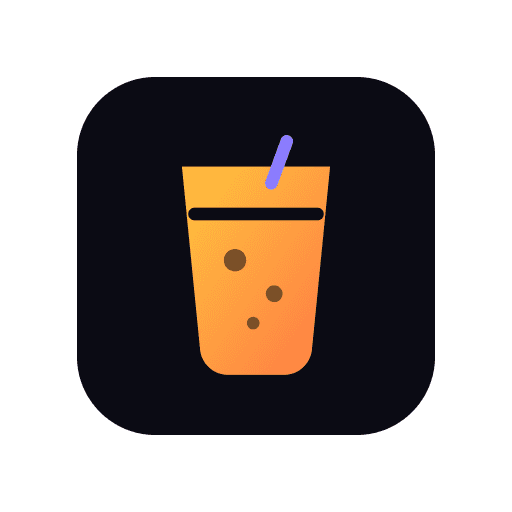
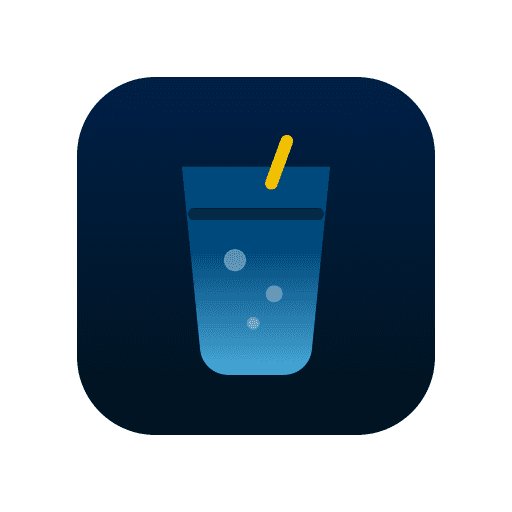
Línea gráfica de Grupo Effi (grupoeffi.com)
- Paleta: azul noche #01121D/#002047, azules corporativos #005A98,
  #277EB5, #49AAD9, #00C0FF, amarillo #F3C100, texto blanco y #CACACA.
- Tipografía Montserrat (incluida en el bundle; funciona offline).
- Botones principales en mayúsculas con degradado azul vertical y
  esquinas inferiores redondeadas; tarjetas con radio 15px.
- Ícono y favicon recoloreados; gráficas revalidadas sobre el nuevo fondo.

diff --git a/src/index.css b/src/index.css
@@ -1,24 +1,27 @@
 @import 'tailwindcss';
 
-/* ── Sistema de diseño Effi Drink Pass ─────────────────────────────────────
-   Oscuro "noche de feria": superficies índigo profundo, acento ámbar (bebida)
-   y violeta. Contrastes AA en texto normal. */
+/* ── Sistema de diseño Effi Drink Pass — línea gráfica de Grupo Effi ─────────
+   (grupoeffi.com): azul noche #01121D / #002047, azules corporativos #005A98,
+   #277EB5, #49AAD9, #00C0FF, amarillo #F3C100, texto blanco y gris #CACACA,
+   tipografía Montserrat, botones en mayúsculas con degradado azul vertical y
+   esquinas inferiores redondeadas. Contrastes AA en texto normal. */
 @theme {
-  --color-bg: #0b0b14;
-  --color-surface: #141424;
-  --color-surface-2: #1c1c30;
-  --color-line: #2a2a42;
-  --color-ink: #f3f3f8;
-  --color-muted: #a3a3bd;
-  --color-faint: #6e6e8a;
-  --color-brand: #ffc53d;
-  --color-brand-2: #ff7a45;
-  --color-accent: #8b7cff;
+  --color-bg: #01121d;
+  --color-surface: #061e33;
+  --color-surface-2: #0a2a47;
+  --color-line: #17405f;
+  --color-ink: #ffffff;
+  --color-muted: #cacaca;
+  --color-faint: #8ca5ba;
+  --color-brand: #49aad9;
+  --color-brand-2: #00c0ff;
+  --color-brand-deep: #005a98;
+  --color-accent: #f3c100;
   --color-ok: #22c55e;
   --color-warn: #f59e0b;
   --color-bad: #ef4444;
   --color-info: #38bdf8;
-  --font-sans: 'Inter', ui-sans-serif, system-ui, -apple-system, 'Segoe UI', Roboto, sans-serif;
+  --font-sans: 'Montserrat Variable', 'Montserrat', ui-sans-serif, system-ui, -apple-system, 'Segoe UI', Roboto, sans-serif;
   --font-mono: ui-monospace, 'SFMono-Regular', Menlo, Consolas, monospace;
   --radius-xl2: 1.25rem;
 }
@@ -43,24 +46,30 @@
 }
 
 @layer components {
+  /* Degradado de botones de grupoeffi.com (y su estado hover). */
   .brand-gradient {
-    background-image: linear-gradient(135deg, var(--color-brand), var(--color-brand-2));
+    background-image: linear-gradient(180deg, #00497c 40%, #49aad9 100%);
   }
+  .brand-gradient-hover:hover:not(:disabled) {
+    background-image: linear-gradient(180deg, #277eb5 20%, #00c0ff 100%);
+  }
+  /* Palabras destacadas en titulares: amarillo Effi. */
   .brand-text {
-    background-image: linear-gradient(135deg, var(--color-brand), var(--color-brand-2));
-    -webkit-background-clip: text;
-    background-clip: text;
-    color: transparent;
+    color: var(--color-accent);
+  }
+  /* Esquina característica de los botones Effi: solo abajo. */
+  .effi-corner {
+    border-radius: 0 0 15px 15px;
   }
   .glow {
-    box-shadow: 0 0 0 1px color-mix(in srgb, var(--color-brand) 25%, transparent),
-      0 20px 60px -20px color-mix(in srgb, var(--color-brand-2) 45%, transparent);
+    box-shadow: 0 0 0 1px color-mix(in srgb, var(--color-brand) 30%, transparent),
+      0 24px 60px -24px color-mix(in srgb, var(--color-brand-2) 45%, transparent);
   }
   .card {
-    @apply rounded-2xl border border-line bg-surface;
+    @apply rounded-[15px] border border-line bg-surface;
   }
   .input {
-    @apply w-full rounded-xl border border-line bg-surface-2 px-3.5 py-2.5 text-sm text-ink placeholder:text-faint
+    @apply w-full rounded-[10px] border border-line bg-surface-2 px-3.5 py-2.5 text-sm text-ink placeholder:text-faint
       transition focus:border-brand focus:outline-none disabled:opacity-60;
   }
   .label {

diff --git a/src/components/charts.tsx b/src/components/charts.tsx
@@ -3,16 +3,16 @@ import { Bar, BarChart, CartesianGrid, Legend, ResponsiveContainer, Tooltip, XAx
 import { Table2, BarChart3 } from 'lucide-react'
 
 /**
- * Paleta categórica validada (dataviz validator) sobre la superficie oscura #141424:
+ * Paleta categórica validada (dataviz validator) sobre la superficie azul noche #061e33 (línea gráfica Grupo Effi):
  * CVD ΔE ≥ 9.4, visión normal ΔE ≥ 26.5, contraste ≥ 3:1. Orden fijo, nunca ciclado.
  */
 export const SERIES = ['#3987e5', '#d95926', '#199e70'] as const
 
-const axis = { stroke: '#6e6e8a', fontSize: 12, tickLine: false, axisLine: false }
+const axis = { stroke: '#8ca5ba', fontSize: 12, tickLine: false, axisLine: false }
 const tooltipStyle = {
-  contentStyle: { background: '#1c1c30', border: '1px solid #2a2a42', borderRadius: 12, color: '#f3f3f8', fontSize: 13 },
-  labelStyle: { color: '#a3a3bd', marginBottom: 4 },
-  itemStyle: { color: '#f3f3f8' },
+  contentStyle: { background: '#0a2a47', border: '1px solid #17405f', borderRadius: 12, color: '#ffffff', fontSize: 13 },
+  labelStyle: { color: '#cacaca', marginBottom: 4 },
+  itemStyle: { color: '#ffffff' },
   cursor: { fill: 'rgba(255,255,255,0.05)' },
 }
 
@@ -48,7 +48,7 @@ export function ChartCard<T extends Record<string, unknown>>({
       <ResponsiveContainer width="100%" height={horizontal ? Math.max(160, data.length * 36) : height}>
         <BarChart data={data} layout={horizontal ? 'vertical' : 'horizontal'} margin={{ top: 4, right: 8, bottom: 0, left: horizontal ? 8 : -16 }}
           barCategoryGap={horizontal ? 8 : '20%'}>
-          <CartesianGrid stroke="#2a2a42" strokeDasharray="0" vertical={horizontal} horizontal={!horizontal} />
+          <CartesianGrid stroke="#17405f" strokeDasharray="0" vertical={horizontal} horizontal={!horizontal} />
           {horizontal ? (
             <>
               <XAxis type="number" allowDecimals={false} {...axis} />
@@ -61,10 +61,10 @@ export function ChartCard<T extends Record<string, unknown>>({
             </>
           )}
           <Tooltip {...tooltipStyle} labelFormatter={(l) => fx(l)} />
-          {series.length > 1 && <Legend wrapperStyle={{ fontSize: 12, color: '#a3a3bd' }} iconType="circle" />}
+          {series.length > 1 && <Legend wrapperStyle={{ fontSize: 12, color: '#cacaca' }} iconType="circle" />}
           {series.map((s, i) => (
             <Bar key={s.key} dataKey={s.key} name={s.label} fill={SERIES[i]} stackId={stacked ? 'a' : undefined}
-              stroke="#141424" strokeWidth={stacked ? 2 : 0}
+              stroke="#061e33" strokeWidth={stacked ? 2 : 0}
               radius={stacked ? (i === series.length - 1 ? (horizontal ? [0, 4, 4, 0] : [4, 4, 0, 0]) : 0) : (horizontal ? [0, 4, 4, 0] : [4, 4, 0, 0])}
               maxBarSize={horizontal ? 22 : 36} isAnimationActive={false} />
           ))}

diff --git a/src/components/ui.tsx b/src/components/ui.tsx
@@ -9,11 +9,11 @@ import type { BenefitStatus } from '@/lib/types'
 // ───────────────────────────── Button ───────────────────────────────────────
 type Variant = 'primary' | 'secondary' | 'ghost' | 'danger' | 'success'
 const variants: Record<Variant, string> = {
-  primary: 'brand-gradient text-bg font-semibold hover:brightness-110 shadow-lg shadow-brand-2/20',
+  primary: 'brand-gradient brand-gradient-hover effi-corner text-white font-bold uppercase tracking-wide shadow-lg shadow-brand-deep/30',
   secondary: 'bg-surface-2 text-ink border border-line hover:border-muted',
   ghost: 'text-muted hover:text-ink hover:bg-surface-2',
   danger: 'bg-bad/15 text-bad border border-bad/40 hover:bg-bad/25',
-  success: 'bg-ok text-bg font-semibold hover:brightness-110',
+  success: 'bg-ok text-bg font-bold uppercase tracking-wide hover:brightness-110',
 }
 
 export function Button({
@@ -24,11 +24,12 @@ export function Button({
       {...rest}
       disabled={disabled || loading}
       className={clsx(
-        'inline-flex items-center justify-center gap-2 rounded-xl transition select-none disabled:cursor-not-allowed disabled:opacity-50',
+        'inline-flex items-center justify-center gap-2 transition select-none disabled:cursor-not-allowed disabled:opacity-50',
         size === 'sm' && 'px-3 py-1.5 text-xs',
         size === 'md' && 'px-4 py-2.5 text-sm',
         size === 'lg' && 'px-5 py-3 text-base',
         size === 'xl' && 'px-6 py-5 text-lg font-bold',
+        variant !== 'primary' && 'rounded-[10px]',
         variants[variant],
         className,
       )}

diff --git a/src/pages/admin/Scanner.tsx b/src/pages/admin/Scanner.tsx
@@ -201,7 +201,7 @@ export default function Scanner() {
           {(['confirm', 'auto'] as const).map((m) => (
             <button key={m} role="radio" aria-checked={effectiveMode === m} disabled={!canRedeem && m === 'auto'}
               onClick={() => { unlockAudio(); setMode(m) }}
-              className={clsx('rounded-lg px-3 py-2 transition disabled:opacity-40', effectiveMode === m ? 'brand-gradient text-bg' : 'text-muted')}>
+              className={clsx('rounded-lg px-3 py-2 transition disabled:opacity-40', effectiveMode === m ? 'brand-gradient text-white' : 'text-muted')}>
               {m === 'confirm' ? 'Confirmación' : 'Automático'}
             </button>
           ))}
@@ -395,7 +395,7 @@ function CameraView({ active, onDecode }: { active: boolean; onDecode: (data: st
       <div className="absolute top-3 right-3 flex gap-2">
         {hasFlash && (
           <button aria-label="Linterna" aria-pressed={flashOn} onClick={async () => { await scannerRef.current?.toggleFlash(); setFlashOn(scannerRef.current?.isFlashOn() ?? false) }}
-            className={clsx('rounded-full p-3 backdrop-blur', flashOn ? 'bg-brand text-bg' : 'bg-black/50 text-white')}>
+            className={clsx('rounded-full p-3 backdrop-blur', flashOn ? 'bg-accent text-bg' : 'bg-black/50 text-white')}>
             <Flashlight className="size-5" />
           </button>
         )}

diff --git a/vite.config.ts b/vite.config.ts
@@ -45,8 +45,8 @@ export default defineConfig(({ mode }) => {
           short_name: 'Drink Pass',
           description: 'Beneficios de bebidas de la Feria Effix 2026',
           lang: 'es-CO',
-          theme_color: '#0b0b14',
-          background_color: '#0b0b14',
+          theme_color: '#01121d',
+          background_color: '#01121d',
           display: 'standalone',
           orientation: 'portrait',
           start_url: base,
@@ -62,7 +62,7 @@ export default defineConfig(({ mode }) => {
           // Solo se precachea el "app shell". Las llamadas a Supabase NUNCA se cachean:
           // validar/consumir exige conexión (no hay consumo offline).
           globPatterns: ['**/*.{js,css,html,svg,png,woff2}'],
-          globIgnores: ['**/ApiDocs-*', '**/swagger*'],
+          globIgnores: ['**/ApiDocs-*', '**/swagger*', '**/montserrat-*cyrillic*', '**/montserrat-vietnamese*'],
           navigateFallback: `${base}index.html`,
           runtimeCaching: [],
           cleanupOutdatedCaches: true,

diff --git a/src/components/layout.tsx b/src/components/layout.tsx
@@ -12,12 +12,12 @@ import { Button, EmptyState, Spinner } from './ui'
 export function Logo({ compact }: { compact?: boolean }) {
   return (
     <Link to="/" className="flex items-center gap-2.5 font-bold tracking-tight">
-      <span className="brand-gradient grid size-9 place-items-center rounded-xl text-bg shadow-lg shadow-brand-2/30">
+      <span className="brand-gradient grid size-9 place-items-center rounded-[10px] text-white shadow-lg shadow-brand-deep/40">
         <GlassWater className="size-5" strokeWidth={2.5} aria-hidden />
       </span>
       {!compact && (
         <span className="leading-tight">
-          <span className="block text-sm">Effi Drink Pass</span>
+          <span className="block text-sm uppercase tracking-wide">Effi Drink Pass</span>
           <span className="block text-[11px] font-medium text-muted">Feria Effix 2026</span>
         </span>
       )}

diff --git a/src/pages/Landing.tsx b/src/pages/Landing.tsx
@@ -17,8 +17,8 @@ export function Landing() {
 
   return (
     <PublicShell>
-      <section className="relative overflow-hidden py-14 sm:py-24">
-        <div aria-hidden className="pointer-events-none absolute -top-40 left-1/2 size-[36rem] -translate-x-1/2 rounded-full bg-brand-2/20 blur-3xl" />
+      <section className="relative -mx-4 overflow-hidden px-4 py-14 sm:mx-0 sm:px-0 sm:py-24">
+        <div aria-hidden className="pointer-events-none absolute -top-40 left-1/2 size-[26rem] -translate-x-1/2 rounded-full bg-brand-2/20 blur-3xl sm:size-[36rem]" />
         <div className="relative mx-auto max-w-3xl text-center">
           <p className="mb-4 inline-flex rounded-full border border-line bg-surface px-3 py-1 text-xs text-muted">Feria Effix 2026</p>
           <h1 className="text-4xl font-extrabold tracking-tight text-balance sm:text-6xl">

diff --git a/src/pages/MyBenefits.tsx b/src/pages/MyBenefits.tsx
@@ -101,7 +101,7 @@ function DayCard({ row, isToday, onOpen }: { row: Row; isToday: boolean; onOpen:
   const canOpen = row.benefit_id && (row.display_status === 'AVAILABLE' || row.display_status === 'UPCOMING')
   return (
     <li className={clsx('card flex items-center gap-4 p-4', isToday && 'border-brand/60')}>
-      <div className={clsx('grid size-12 shrink-0 place-items-center rounded-xl text-lg font-bold', isToday ? 'brand-gradient text-bg' : 'bg-surface-2')}>
+      <div className={clsx('grid size-12 shrink-0 place-items-center rounded-xl text-lg font-bold', isToday ? 'brand-gradient text-white' : 'bg-surface-2')}>
         {row.event_day.date.slice(8, 10)}
       </div>
       <div className="min-w-0 flex-1">

diff --git a/index.html b/index.html
@@ -3,7 +3,7 @@
   <head>
     <meta charset="UTF-8" />
     <meta name="viewport" content="width=device-width, initial-scale=1.0, viewport-fit=cover" />
-    <meta name="theme-color" content="#0b0b14" />
+    <meta name="theme-color" content="#01121d" />
     <meta name="description" content="Effi Drink Pass — beneficios de bebidas de la Feria Effix 2026" />
     <meta name="referrer" content="strict-origin-when-cross-origin" />
     <meta name="apple-mobile-web-app-capable" content="yes" />

diff --git a/src/main.tsx b/src/main.tsx
@@ -2,6 +2,7 @@ import { StrictMode } from 'react'
 import { createRoot } from 'react-dom/client'
 import { QueryClient, QueryClientProvider } from '@tanstack/react-query'
 import { BrowserRouter } from 'react-router'
+import '@fontsource-variable/montserrat'
 import './index.css'
 import { App } from './App'
 import { isConfigured } from './lib/config'
